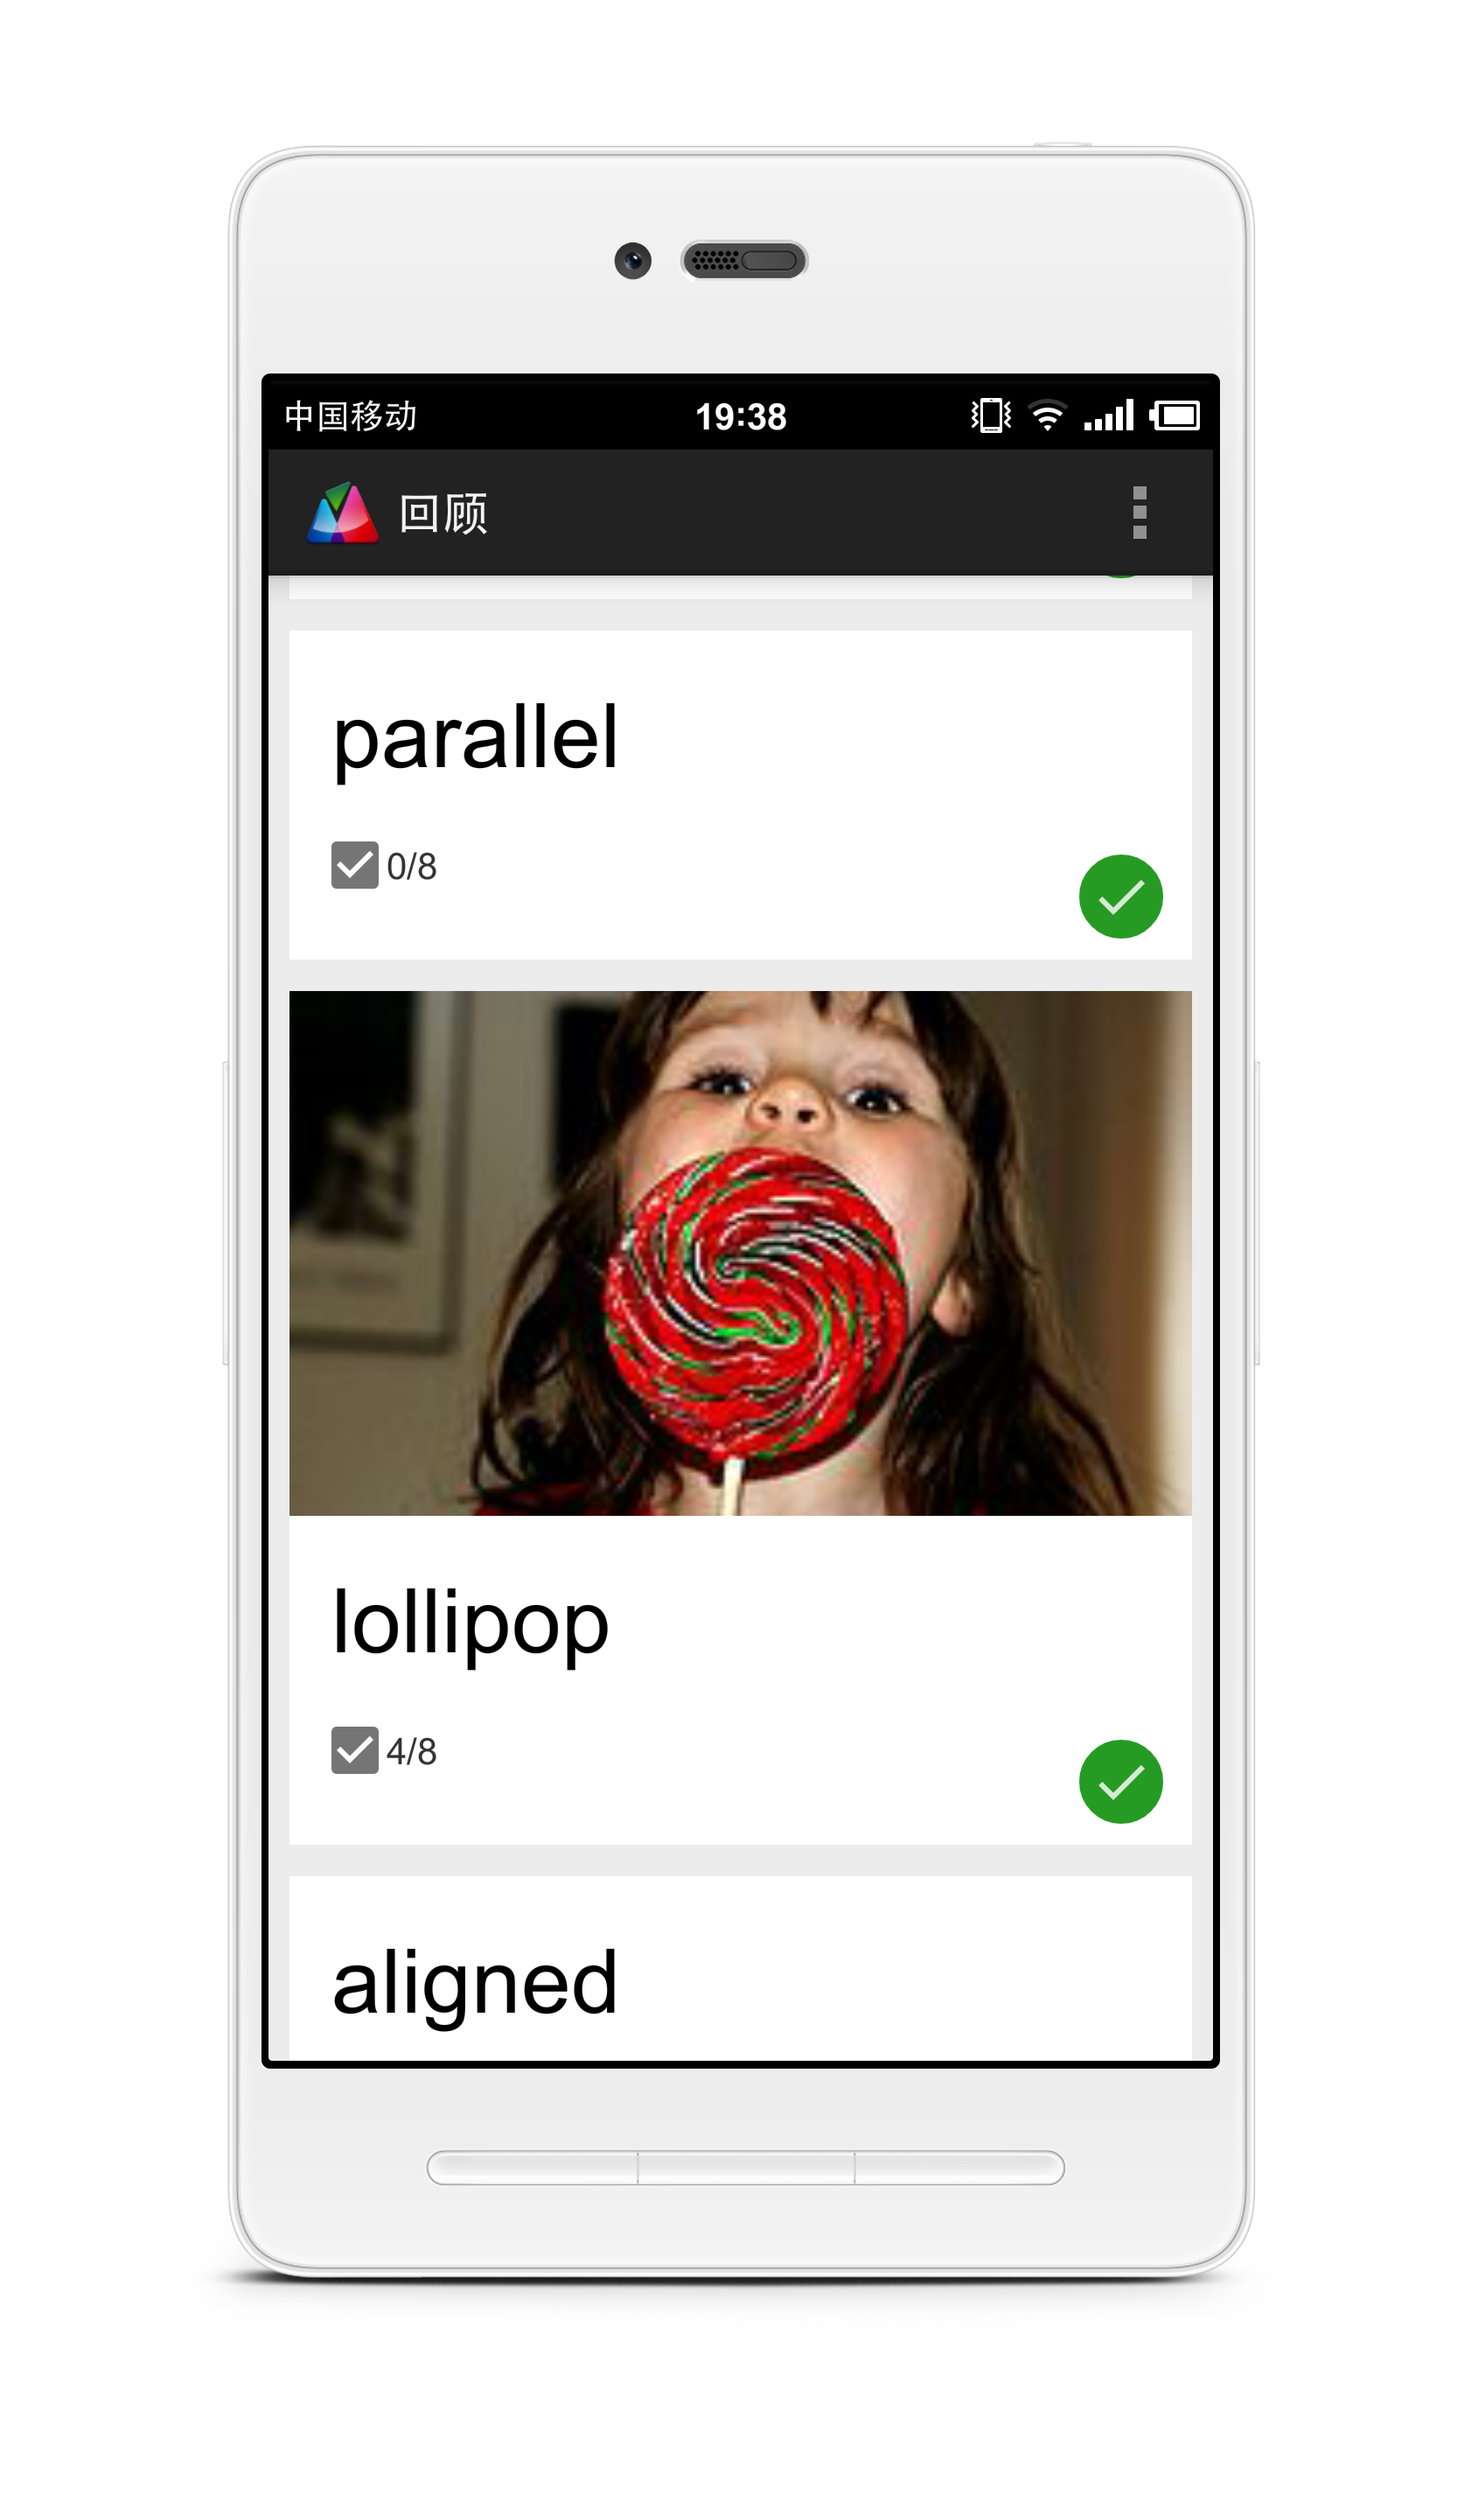
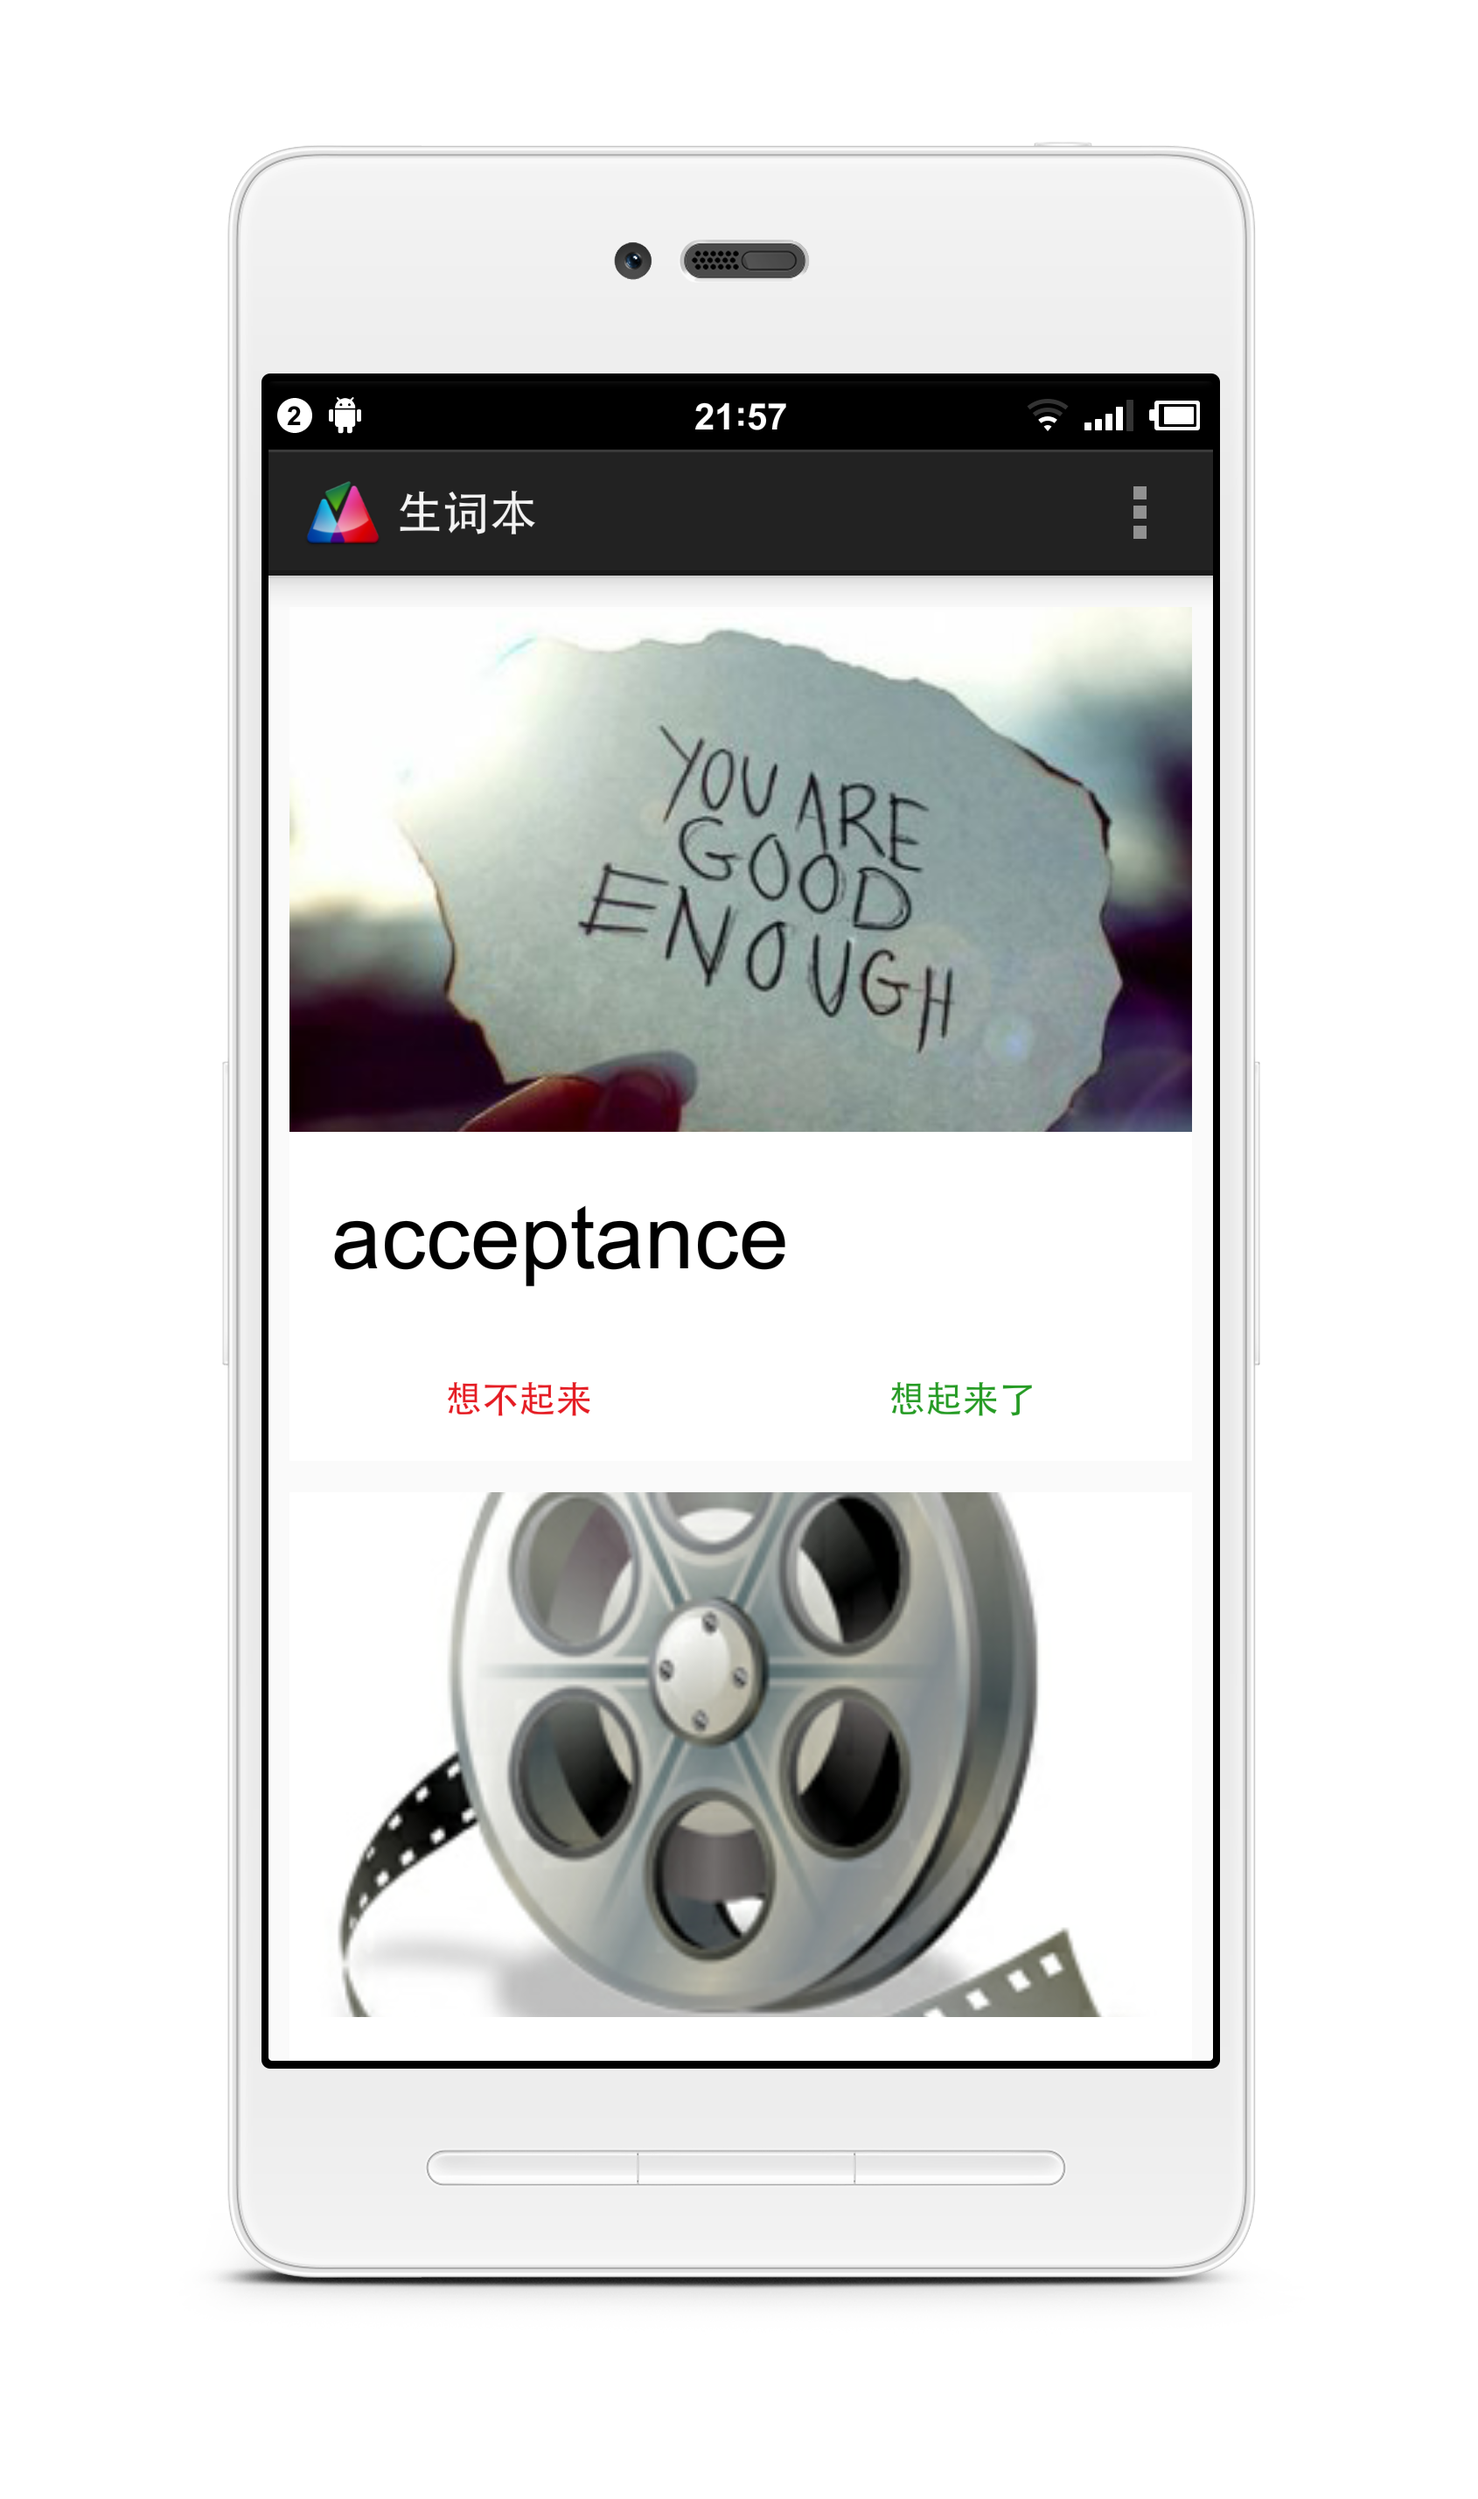
modify writing and res

diff --git a/index.md b/index.md
@@ -40,19 +40,19 @@ VAA for Android (Coming Soon)
     3. 稍等片刻后，会弹出含有单词解释的浮动窗口。
       <img src="{{ site.baseurl }}/images/dk_lookup_share_float_card.png" alt="分享查词 — 结果" class="img-responsive">
 
-1. 回顾清单  
+1. 词道生词本  
 在阅读之后的碎片时间里，可以通过电脑或者手机，随时随地的查看回顾词单来回顾生词。
   + Chrome 上的回顾词单
-    <img src="{{ site.baseurl }}/images/chrome_recall_list.png" alt="回顾词单 - Chrome" class="img-responsive">
+    <img src="{{ site.baseurl }}/images/chrome_recall_list.png" alt="生词本 - Chrome" class="img-responsive">
   + Android上的回顾词单
-    <img src="{{ site.baseurl }}/images/dk_android_recall_list.png" alt="回顾词单 - Android" class="img-responsive">
+    <img src="{{ site.baseurl }}/images/dk_android_recall_list.png" alt="生词本 - Android" class="img-responsive">
   + Chrome 上的回顾提醒
     <img src="{{ site.baseurl }}/images/notification_recall_chrome.png" alt="回顾提醒 — Chrome" class="img-responsive">
   + Android 上的回顾提醒
     <img src="{{ site.baseurl }}/images/dk_notif_recall_android.png" alt="回顾提醒 — Android" class="img-responsive">
 
 # FAQ
-+ 问：查询的单词为什么没有马上出现在回顾词单里？  
++ 问：查询的单词为什么没有马上出现在生词本里？  
 答：查询的单词加入回顾队列后，需达到特定的回顾时间点，才会出现在回顾词单里。目前这个回顾时间点符合艾宾浩斯记忆曲线。具体的回顾时间点参考[这里](http://www.douban.com/group/topic/1054905/)。
 + 问：艾宾浩斯记忆曲线有用吗？  
 答：艾宾浩斯记忆曲线仅仅是一个科学工作者的实验结果，有参考意义。但对于记单词这件事情来说，它不是关键，重复才是王道。艾宾浩斯记忆曲线只是重复的一种方式，反复回顾吧，一定有用！
